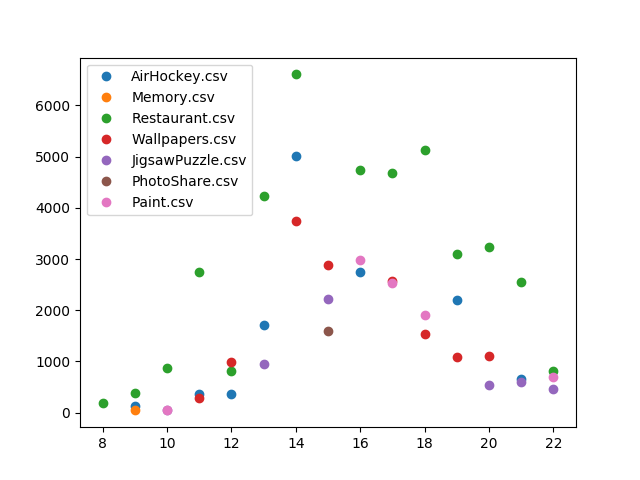
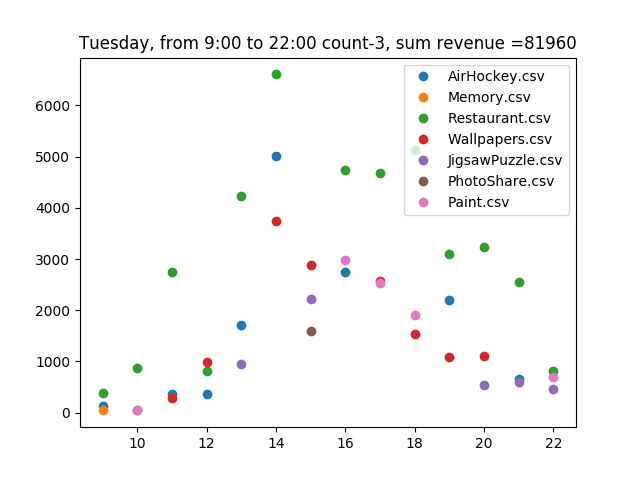
[time_range] added

diff --git a/src/visualisation/visualize.py b/src/visualisation/visualize.py
@@ -5,37 +5,45 @@ from settings import PROCESSED_PATH, PROCESSED_APPS_PATH, REPORTS_PATH
 from utils import file_utils
 
 
-def show_apps_sum_revenue(count=3, weekday=0):
-    apps = get_best_apps(count, weekday)
+def show_apps_sum_revenue(count=3, weekday=0, time_range=[0, 23]):
+    apps = get_best_apps(count, weekday, time_range)
     fig, ax = plt.subplots()
+    day_name = calendar.day_name[weekday]
 
     for app in apps:
         ax.plot(app['hours'], app['values'], 'o', label=app['name'])
-        ax.legend()
 
-    day_name = calendar.day_name[weekday]
+    sum_revenue = int(sum([sum(app['values']) for app in apps]))
+    ax.set_title(''.join([
+        day_name, ', from ', str(time_range[0]), ':00 to ', str(time_range[1]),
+        ':00 count-', str(count),
+        ', sum revenue =', str(sum_revenue)
+    ]))
+    ax.legend()
+
     plt.savefig(''.join([REPORTS_PATH, str(weekday), ' ', day_name, ' ', 'count-', str(count), '.png']))
     plt.show()
     return apps
 
 
-def get_best_apps(count, weekday):
+def get_best_apps(count, weekday, time_range):
     apps = get_apps_sum_revenue(weekday)
 
     best_apps = {}
     for app in apps:
         for index, hour in enumerate(app['hours']):
-            val = app['values'][index]
-            if not hour in best_apps:
-                best_apps[hour] = []
+            if time_range[0] <= hour and hour <= time_range[1]:
+                val = app['values'][index]
+                if not hour in best_apps:
+                    best_apps[hour] = []
 
-            if len(best_apps[hour]) < count:
-                best_apps[hour].append({'val': val, 'name': app['name']})
-            else:
-                best_apps[hour].append({'val': val, 'name': app['name']})
-                min_revenue_app = min(best_apps[hour], key=lambda x: x['val'])
+                if len(best_apps[hour]) < count:
+                    best_apps[hour].append({'val': val, 'name': app['name']})
+                else:
+                    best_apps[hour].append({'val': val, 'name': app['name']})
+                    min_revenue_app = min(best_apps[hour], key=lambda x: x['val'])
 
-                best_apps[hour].remove(min_revenue_app)
+                    best_apps[hour].remove(min_revenue_app)
 
     plot_data = {}
     for key in best_apps.keys():

diff --git a/src/main.py b/src/main.py
@@ -21,7 +21,7 @@ def prepare_data():
 
 def show_best_apps(count):
     for weekday in range(0, 7):
-        visualize.show_apps_sum_revenue(count=count, weekday=weekday)
+        visualize.show_apps_sum_revenue(count=count, weekday=weekday, time_range=[9, 22])
 
 
 if __name__ == '__main__':
